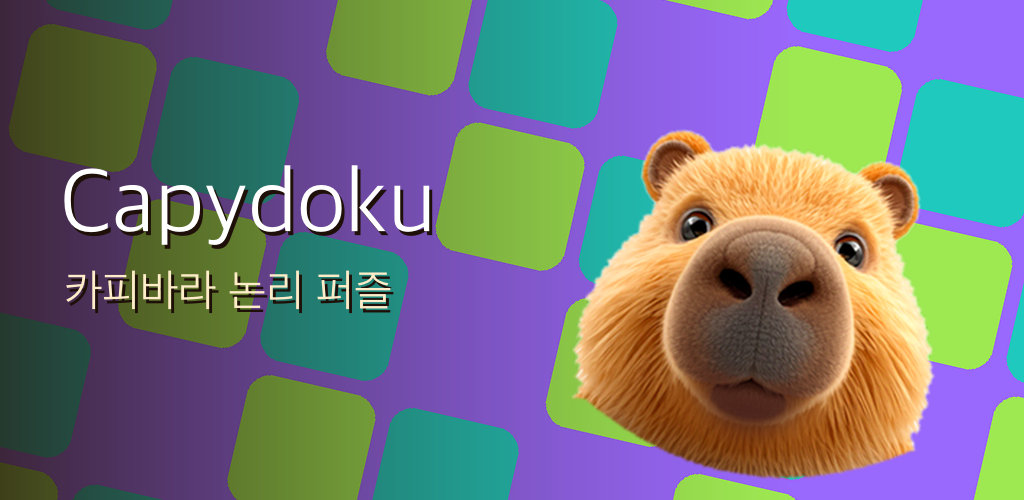
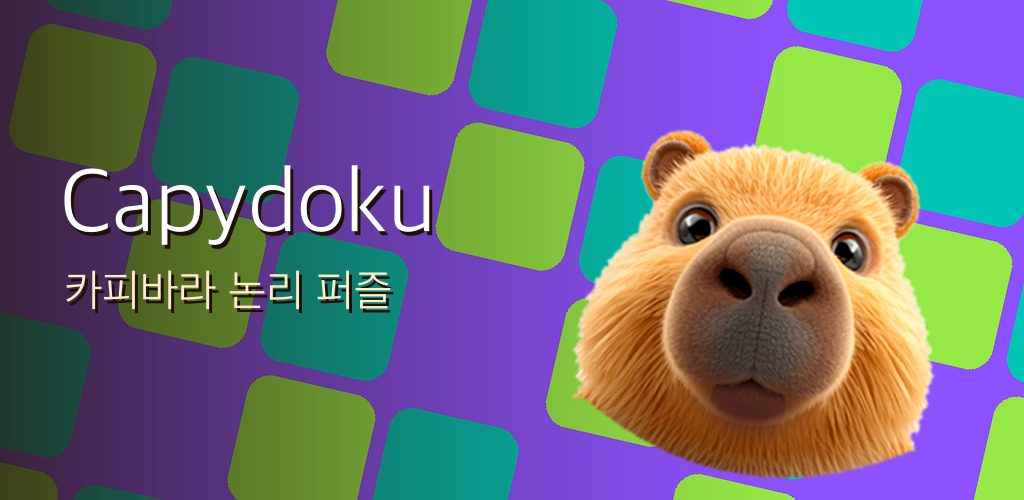
아이콘: 구석에서 올라오는 카피 + 흰 선으로 가른 색영역
**얼굴이 프레임 구석에서 올라온다**(사용자 지적: 그 느낌이 좋았는데 왜
바꿨냐). 가운데에 얌전히 얹으면 증명사진이 되고, 키울수록 사방 여백이
답답해진다. 왼쪽 아래에 붙여 두 변에 걸쳐 잘리게 두면 화면 밖에서 쑥 올라온
것처럼 보이고, 같은 크기라도 훨씬 커 보인다.

**배경은 흰 선으로 가른 색영역 지도**(레퍼런스와 같은 문법, 사용자 요청).
둥근 타일을 간격 두고 깔았더니 퍼즐판이 아니라 앱 아이콘 모음처럼 보였다.
면을 맞붙이고 흰 선으로 가르면 한눈에 "칸을 나눠 채우는 게임"으로 읽힌다.
색은 차가운 쪽으로 — 카피 털이 따뜻한 주황이라 같은 계열을 깔면 묻힌다.

diff --git a/tool/gen_icon.py b/tool/gen_icon.py
@@ -4,8 +4,8 @@
 이 장르(Queens 계열)의 아이콘 문법은 "색영역 판 + 캐릭터 얼굴 크게"다.
 전신을 넣으면 얼굴이 작아져 무엇인지 안 보인다 — 아이콘은 48dp로도 읽혀야 한다.
 
-배경은 게임 팔레트로 그린 **기울어진 타일 그리드**이고, 얼굴은 퍼즐 칸에
-쓰는 것과 같은 조각(assets/rig/h_head.png)이라 앱 안의 카피와 정확히 같다.
+배경은 **흰 선으로 가른 색영역 지도**(=실제 퍼즐판의 문법)이고, 얼굴은 퍼즐
+칸에 쓰는 것과 같은 조각(assets/rig/h_head.png)이라 앱 안의 카피와 같다.
 
     python3 tool/rig_parts.py && python3 tool/gen_icon.py
     dart run flutter_launcher_icons
@@ -22,47 +22,54 @@ SIZE = 1024
 RIG = 'assets/rig'
 OUT = 'assets/icon'
 
-# 그리드를 이만큼 기울인다. 반듯하면 UI 부품처럼 보이고, 너무 기울이면
-# 무슨 모양인지 안 읽힌다.
-GRID_TILT = -13
-
-# 팔레트의 **차가운 쪽**을 아이콘용으로 한 단계 더 쨍하게 올린 값.
-# 카피 털이 주황~황갈색이라 주황·갈색 칸 위에 올리면 서로 묻히고,
-# 앱 안의 톤을 그대로 쓰면 런처의 다른 아이콘들 사이에서 칙칙해 보인다.
+# 배경 색. **카피 털이 따뜻한 주황~황갈색이라 배경은 차가운 쪽으로 간다** —
+# 같은 계열을 깔면 얼굴이 배경에 묻힌다. 런처의 다른 아이콘들 사이에서도
+# 눈에 띄어야 하므로 앱 안의 톤보다 한 단계 더 쨍하게 올린 값이다.
 COLORS = [
-    (153, 104, 252),   # 보라
-    (32, 201, 189),    # 청록
-    (158, 232, 82),    # 연두
+    (140, 82, 255),    # 보라 — 바탕
+    (0, 196, 180),     # 청록
+    (150, 232, 70),    # 연두
 ]
 
+# 칸을 나누는 흰 선의 굵기(아이콘 크기 대비). 얇으면 48dp에서 사라진다.
+LINE_W = 0.030
+
+# 몇 칸으로 나눌까. 많으면 작게 줄었을 때 잔무늬가 된다.
+CELLS = 4
+
+# 어느 칸이 어느 색인가. **덩어리로 묶는다** — 체크무늬로 흩으면 퍼즐의
+# 색영역이 아니라 그냥 무늬가 된다. 이 게임의 판이 실제로 이렇게 생겼다.
+REGIONS = [
+    [0, 0, 0, 1],
+    [0, 0, 1, 1],
+    [2, 0, 0, 1],
+    [2, 2, 0, 0],
+]
+
+
 def background(size):
-    """기울어진 타일 그리드.
+    """색영역 지도 + **흰 격자선**.
 
-    예전에는 실제 퍼즐처럼 색영역 지도를 그렸는데, 아이콘 크기에서는 영역
-    경계선이 잔무늬로 뭉개져 지저분했다. **큼직한 타일 몇 개를 통째로
-    기울여** 놓으면 같은 "퍼즐판" 인상을 주면서 48dp에서도 형태가 남는다.
+    한때 둥근 타일을 사이 간격을 두고 깔았는데, 그건 퍼즐판이 아니라 앱
+    아이콘 모음처럼 보였다. 실제 판처럼 **면을 맞붙이고 흰 선으로 가르면**
+    한눈에 "칸을 나눠 채우는 게임"으로 읽힌다(레퍼런스도 같은 문법이다).
     """
-    # 회전해도 모서리가 비지 않도록 넉넉한 캔버스에 그린 뒤 잘라 낸다.
-    big = int(size * 1.7)
-    im = Image.new('RGBA', (big, big), COLORS[0])
+    im = Image.new('RGBA', (size, size), COLORS[0])
     d = ImageDraw.Draw(im)
-
-    cells = 5
-    step = big / cells
-    pad = step * 0.055          # 타일 사이 틈. 좁아야 판처럼 보인다.
-    r = step * 0.16
-    for row in range(cells):
-        for col in range(cells):
-            # 대각선으로 색이 흐르게 한다. `row*2 + col*3`처럼 열 계수가
-            # 색 수의 배수면 열이 계산에서 사라져 **가로 줄무늬**가 된다.
-            c = COLORS[(row + col * 2) % len(COLORS)]
-            x0, y0 = col * step + pad, row * step + pad
-            d.rounded_rectangle([x0, y0, x0 + step - pad * 2, y0 + step - pad * 2],
-                                radius=r, fill=c)
-
-    im = im.rotate(GRID_TILT, resample=Image.BICUBIC, center=(big / 2, big / 2))
-    off = (big - size) // 2
-    return im.crop((off, off, off + size, off + size))
+    step = size / CELLS
+    for row in range(CELLS):
+        for col in range(CELLS):
+            d.rectangle([col * step, row * step,
+                         (col + 1) * step, (row + 1) * step],
+                        fill=COLORS[REGIONS[row][col]])
+    # 선은 면을 다 칠한 뒤에 긋는다. 칸마다 테두리를 그리면 맞닿은 자리에서
+    # 선이 두 번 겹쳐 굵기가 들쭉날쭉해진다.
+    w = max(2, round(size * LINE_W))
+    for i in range(CELLS + 1):
+        k = i * step
+        d.line([(k, 0), (k, size)], fill=(255, 255, 255, 255), width=w)
+        d.line([(0, k), (size, k)], fill=(255, 255, 255, 255), width=w)
+    return im
 
 
 TILT = -11  # 갸웃한 각도. 정면으로 세워 두면 증명사진처럼 뻣뻣하다.
@@ -80,15 +87,20 @@ def face(height, tilt=TILT):
     return im.resize((w, height), Image.LANCZOS)
 
 
-def peeking(base, size, height_ratio, top_ratio):
-    """아래 모서리에 턱이 걸리게 얼굴을 얹는다.
+def rising(base, size, height_ratio, cx_ratio, top_ratio, tilt=TILT):
+    """**프레임 구석에서 올라온다.**
 
-    턱까지 다 보이면 그냥 붙여 놓은 얼굴이지만, 아래가 잘리면 **창턱 너머로
-    뾱 올라온 것**처럼 보인다. 아이콘이 작아져도 이 실루엣은 살아남는다.
+    가운데에 얌전히 얹으면 증명사진이 되고, 얼굴을 키울수록 사방 여백이
+    답답해진다. 한쪽 구석에 붙여 **두 변에 걸쳐 잘리게** 두면 화면 밖에서
+    쑥 올라온 것처럼 보이고, 같은 크기라도 훨씬 커 보인다.
+
+    [cx_ratio]는 얼굴 중심의 가로 위치(0=왼쪽 끝, 1=오른쪽 끝),
+    [top_ratio]는 얼굴 윗변의 세로 위치. 둘 다 1을 넘겨 밖으로 밀 수 있다.
     """
-    f = face(round(size * height_ratio))
+    f = face(round(size * height_ratio), tilt)
     out = base.copy()
-    out.alpha_composite(f, (round((size - f.width) / 2), round(size * top_ratio)))
+    out.alpha_composite(
+        f, (round(size * cx_ratio - f.width / 2), round(size * top_ratio)))
     return out
 
 
@@ -98,14 +110,14 @@ def main():
     bg = background(SIZE)
     bg.save(f'{OUT}/icon_bg.png')
 
-    # 얼굴이 주인공이되, 사방으로 판이 보여야 "퍼즐 게임"으로 읽힌다.
-    # 턱은 아래 모서리 밖으로 넘겨 잘라 낸다.
-    peeking(bg, SIZE, 1.06, 0.20).convert('RGB').save(f'{OUT}/icon.png')
+    # 얼굴은 크게, **왼쪽 아래 구석에서** 올라온다. 오른쪽 위로 판이 남아
+    # "퍼즐 게임"으로도 읽힌다. 턱과 왼뺨은 모서리 밖으로 넘겨 잘라 낸다.
+    rising(bg, SIZE, 1.20, 0.44, 0.30).convert('RGB').save(f'{OUT}/icon.png')
 
-    # 적응형 전경: 바깥 1/4이 잘려 나가므로 가운데 66% 안에 들어와야 한다.
-    # 여기서도 턱은 마스크 밖으로 넘겨 같은 실루엣을 만든다.
+    # 적응형 전경: 바깥 1/4이 잘려 나가므로 얼굴을 조금 줄이고 가운데로
+    # 당긴다. 그래도 같은 방향에서 올라오는 실루엣은 유지한다.
     fg = Image.new('RGBA', (SIZE, SIZE), (0, 0, 0, 0))
-    peeking(fg, SIZE, 0.78, 0.24).save(f'{OUT}/icon_fg.png')
+    rising(fg, SIZE, 0.90, 0.46, 0.30).save(f'{OUT}/icon_fg.png')
 
     for n in ('icon.png', 'icon_bg.png', 'icon_fg.png'):
         print(f'{OUT}/{n}  {os.path.getsize(f"{OUT}/{n}") // 1024}KB')
